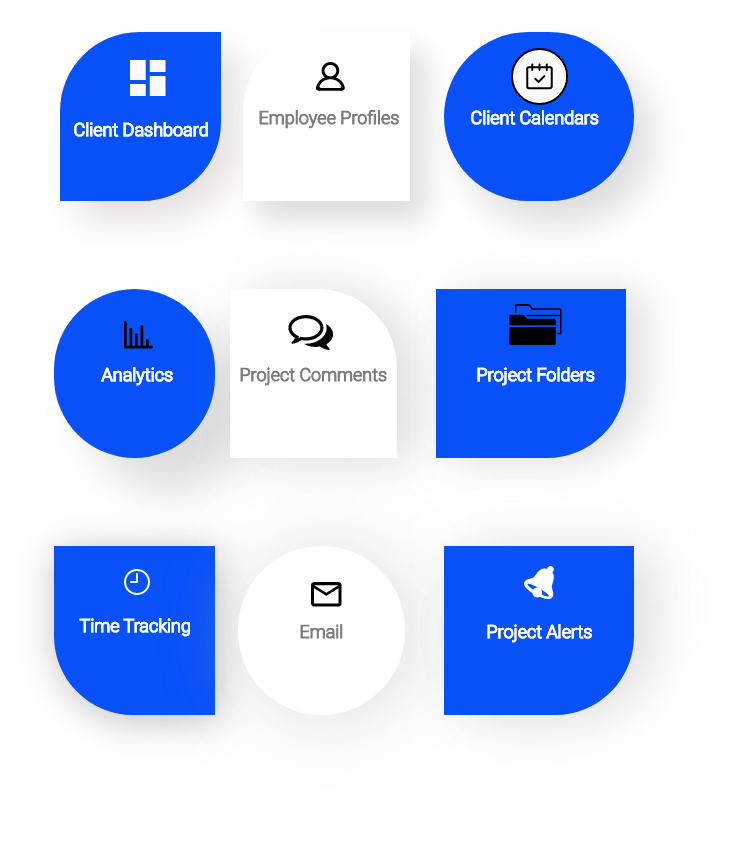
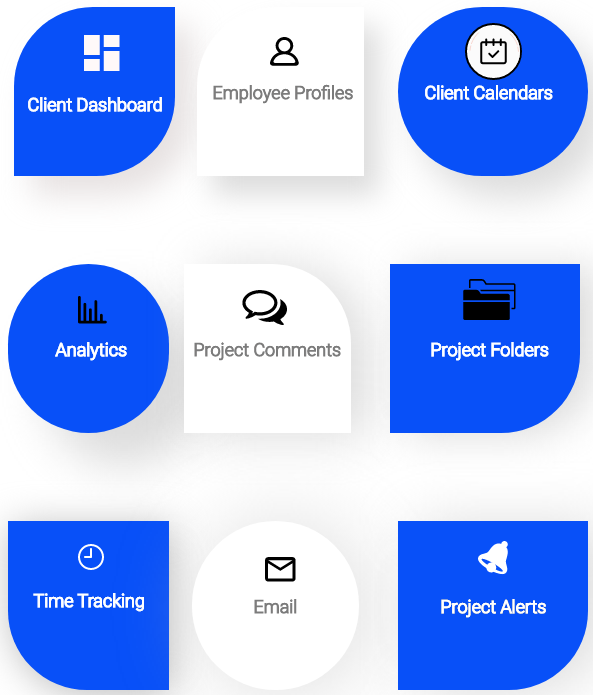
second commit

diff --git a/css/styles_main.css b/css/styles_main.css
@@ -106,11 +106,14 @@ header {
     align-items: center;
     justify-content: center;
     width: 100%;
+    padding-top: 80px;
 }
 
 #r-1 {
     display: flex;
     flex-direction: row;
+    padding-left: 180px;
+    width: 100%;
 }
 
 #r-1-container {
@@ -240,19 +243,24 @@ header {
 }
 
 #r-2 {
-    padding-right: 0px;
+    display: flex;
+    align-items: center;
+    justify-content: center;
+    width: 100%;
+    padding-right: 50px;
 }
 
 #features-grid {
-    width: 520px;
-    padding-top: 95px;
-    padding-left: 140px;
+    width: 70%;
+    vertical-align: middle;
+    padding-right: 50px;
+    padding-top: 20px;
 }
 
 hr {
-    width: 50%;
+    width: 60%;
     margin: auto;
-    margin-top: 40px;
+    margin-top: 140px;
 }
 
 #c-2 {

diff --git a/html/index_main.html b/html/index_main.html
@@ -67,7 +67,7 @@
                     </div>
                 </div>
                 <div id="r-2">
-                    <img id="features-grid" src="/assett files/CRM-Main/Header-Side.png"
+                    <img id="features-grid" src="/assett files/CRM-Main/Header-Side-1.png"
                     aria-placeholder="features-grid">
                 </div>
             </div>
